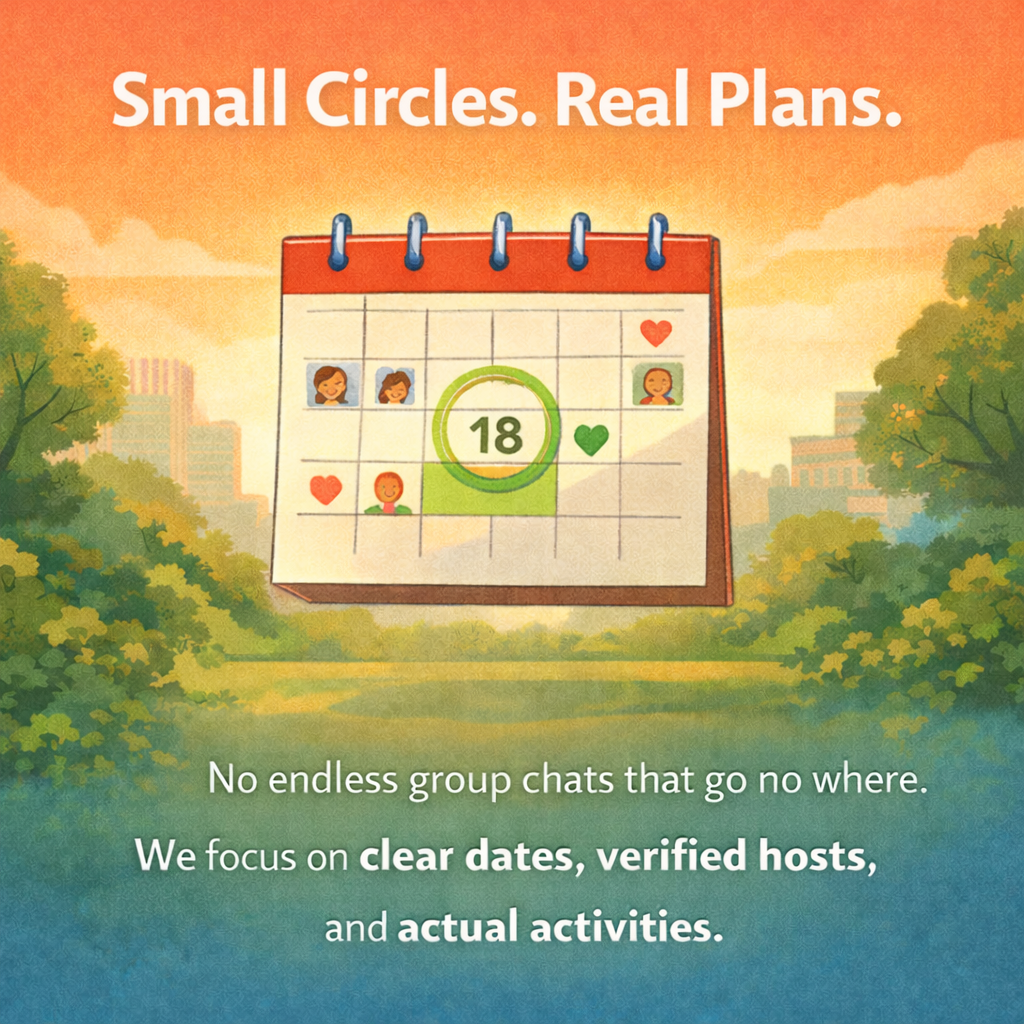
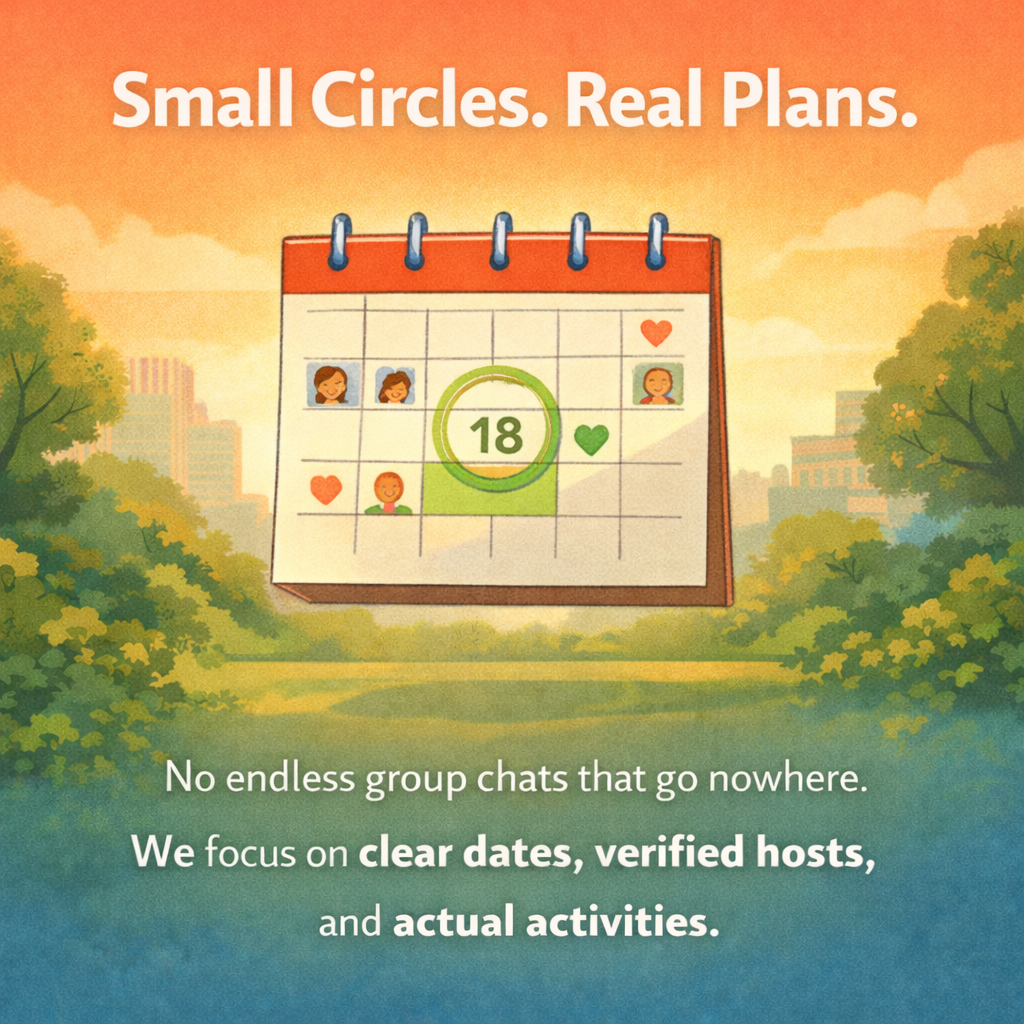
1.4.1

diff --git a/src/pages/Onboarding.tsx b/src/pages/Onboarding.tsx
@@ -25,23 +25,23 @@ const SLIDES: Slide[] = [
     image: `${import.meta.env.BASE_URL}image.png`,
   },
   {
-    title: "Create a private circle",
-    text: "Spin up a small group (max 7 people) and invite with a code.",
+    title: "Trusted by Design",
+    text: "Safety first. All profiles are verified, so you can meet others with confidence.",
     image: `${import.meta.env.BASE_URL}image2.png`,
   },
   {
-    title: "Plan real meetups",
-    text: "Schedule gatherings, vote on plans, and lock times everyone agrees on.",
+    title: "Matched, not random",
+    text: "We use AI to understand personalities and build balanced groups where conversations flow naturally.",
     image: `${import.meta.env.BASE_URL}image3.png`,
   },
   {
-    title: "Stay in sync",
-    text: "Lightweight check-ins keep the plan moving without extra noise.",
+    title: "Real plans, real meetings",
+    text: "We focus on clear dates, verified hosts, and actual activities. No ghosting, no flaking.",
     image: `${import.meta.env.BASE_URL}image4.png`,
   },
   {
     title: "Signal, not noise",
-    text: "No endless feed. Just chats, polls, and reminders that keep your group moving.",
+    text: "No endless feed. Just what matters to turn conversations into real-world meetups.",
     image: `${import.meta.env.BASE_URL}image5.png`,
   },
 ];
